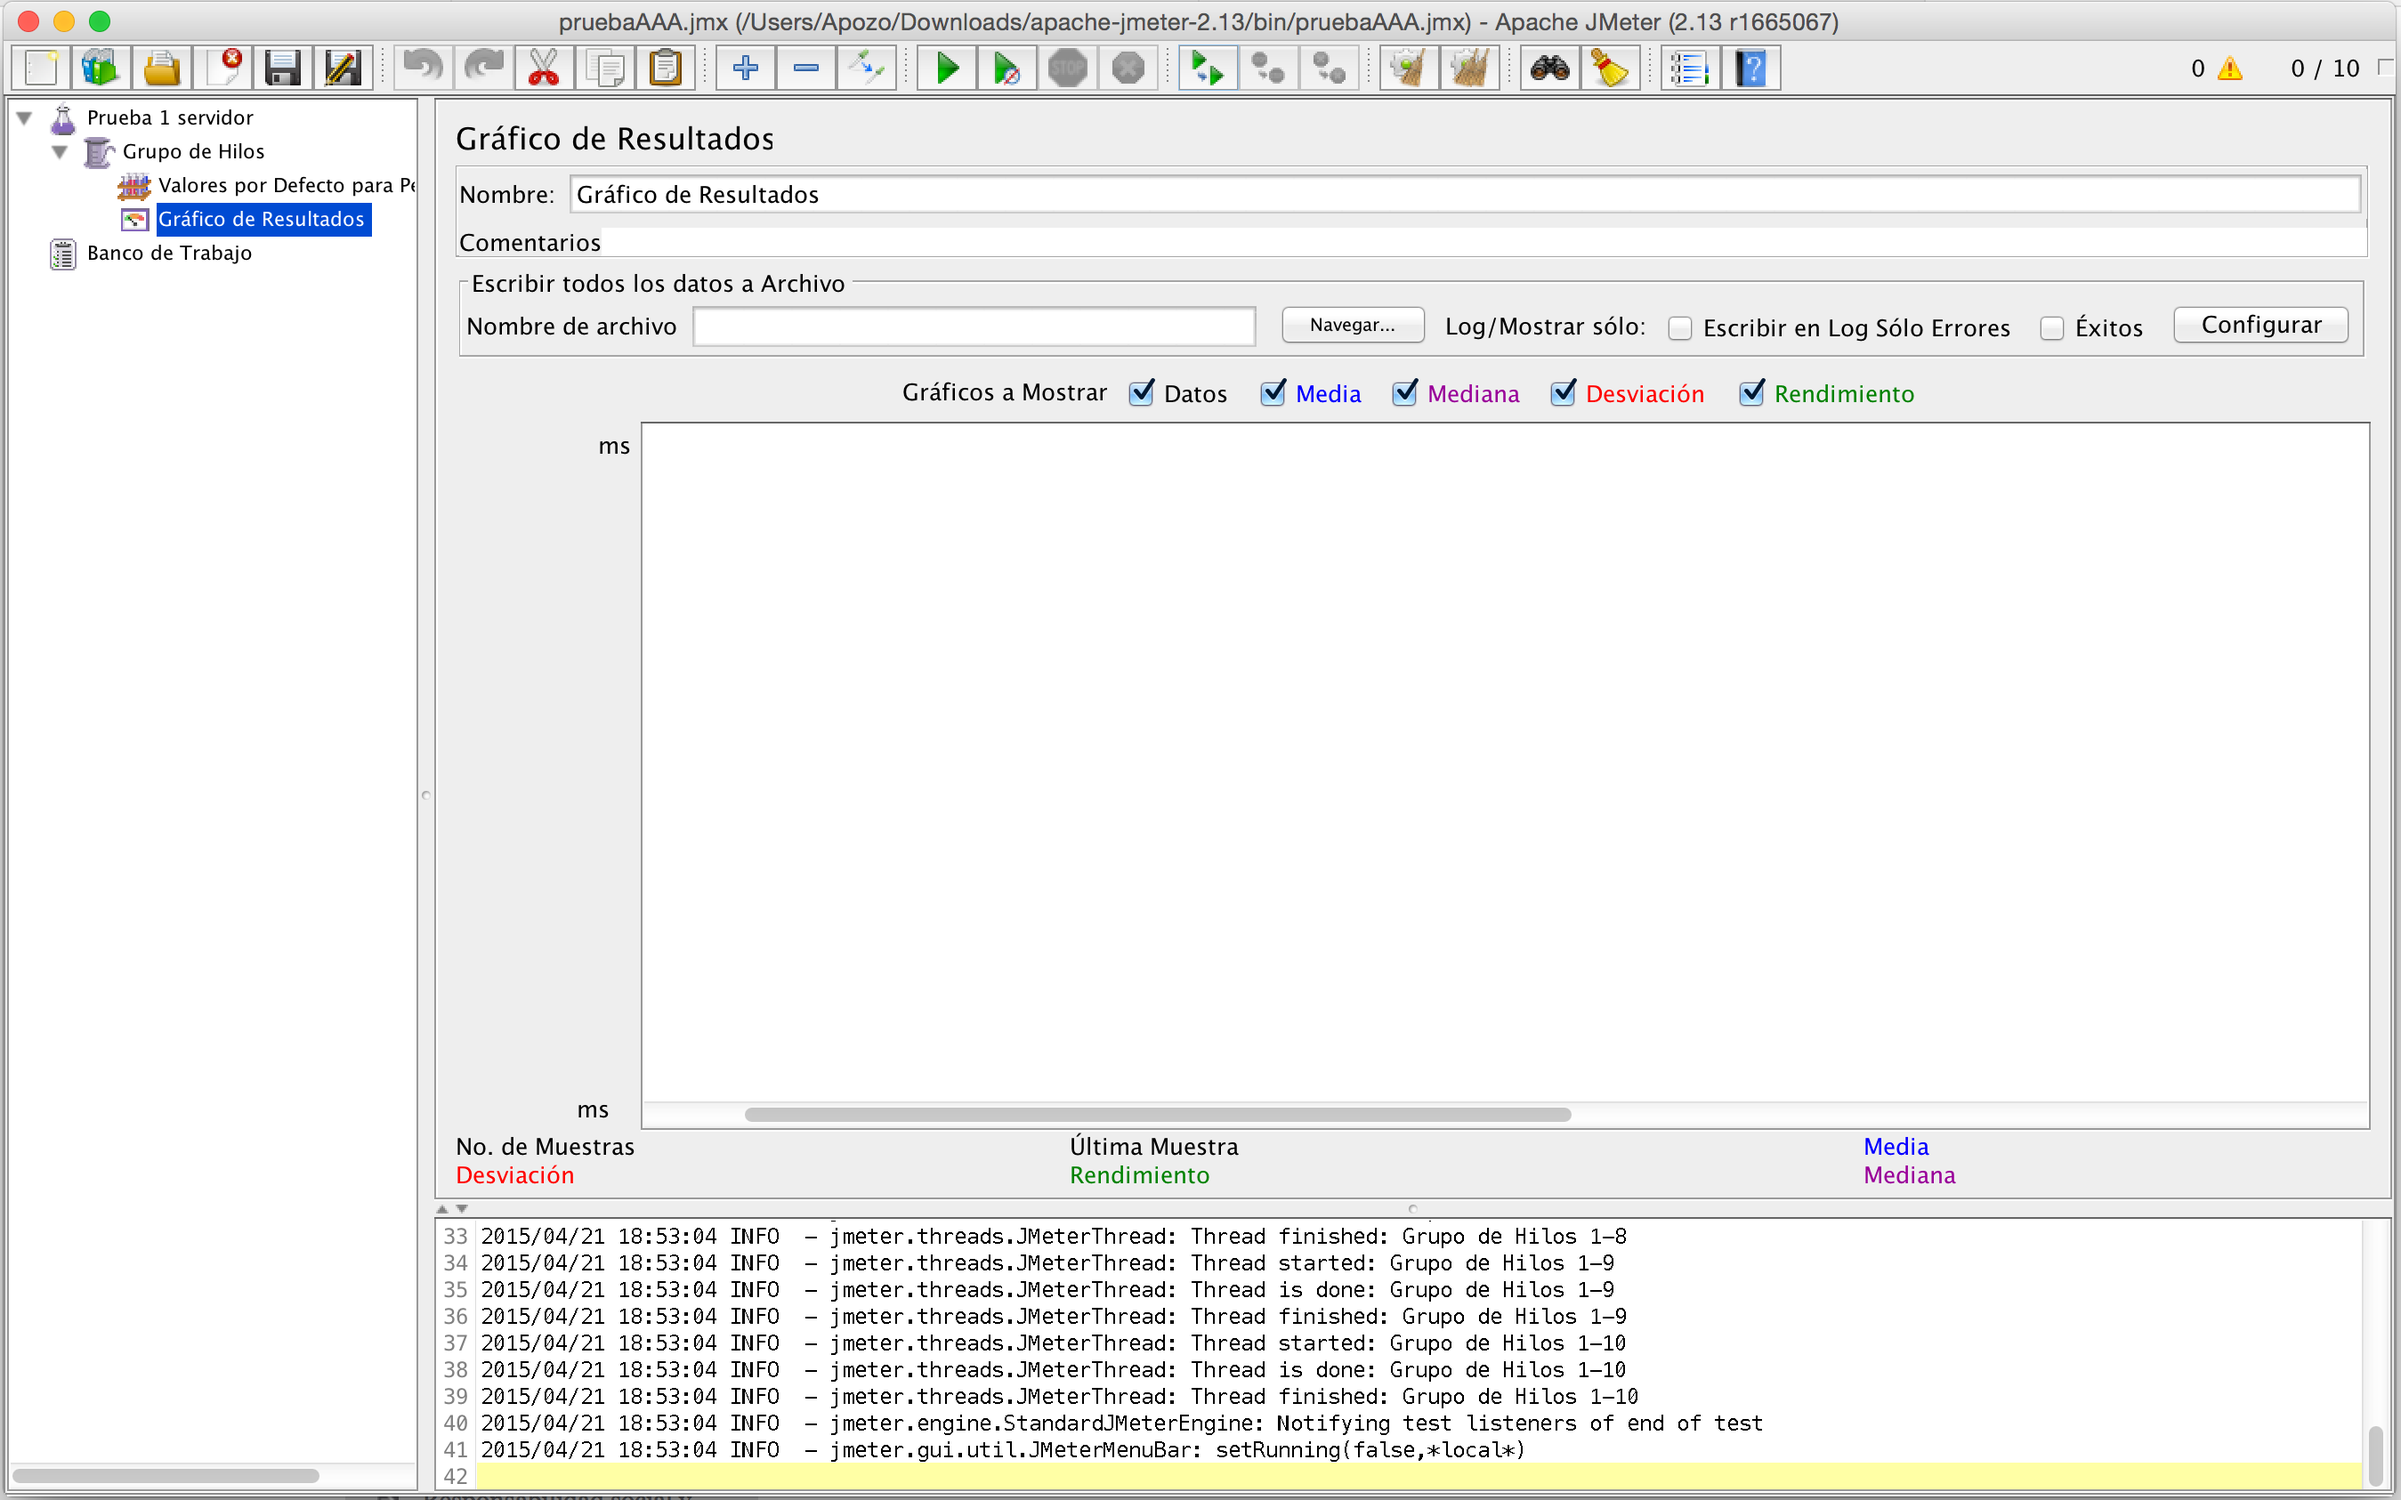
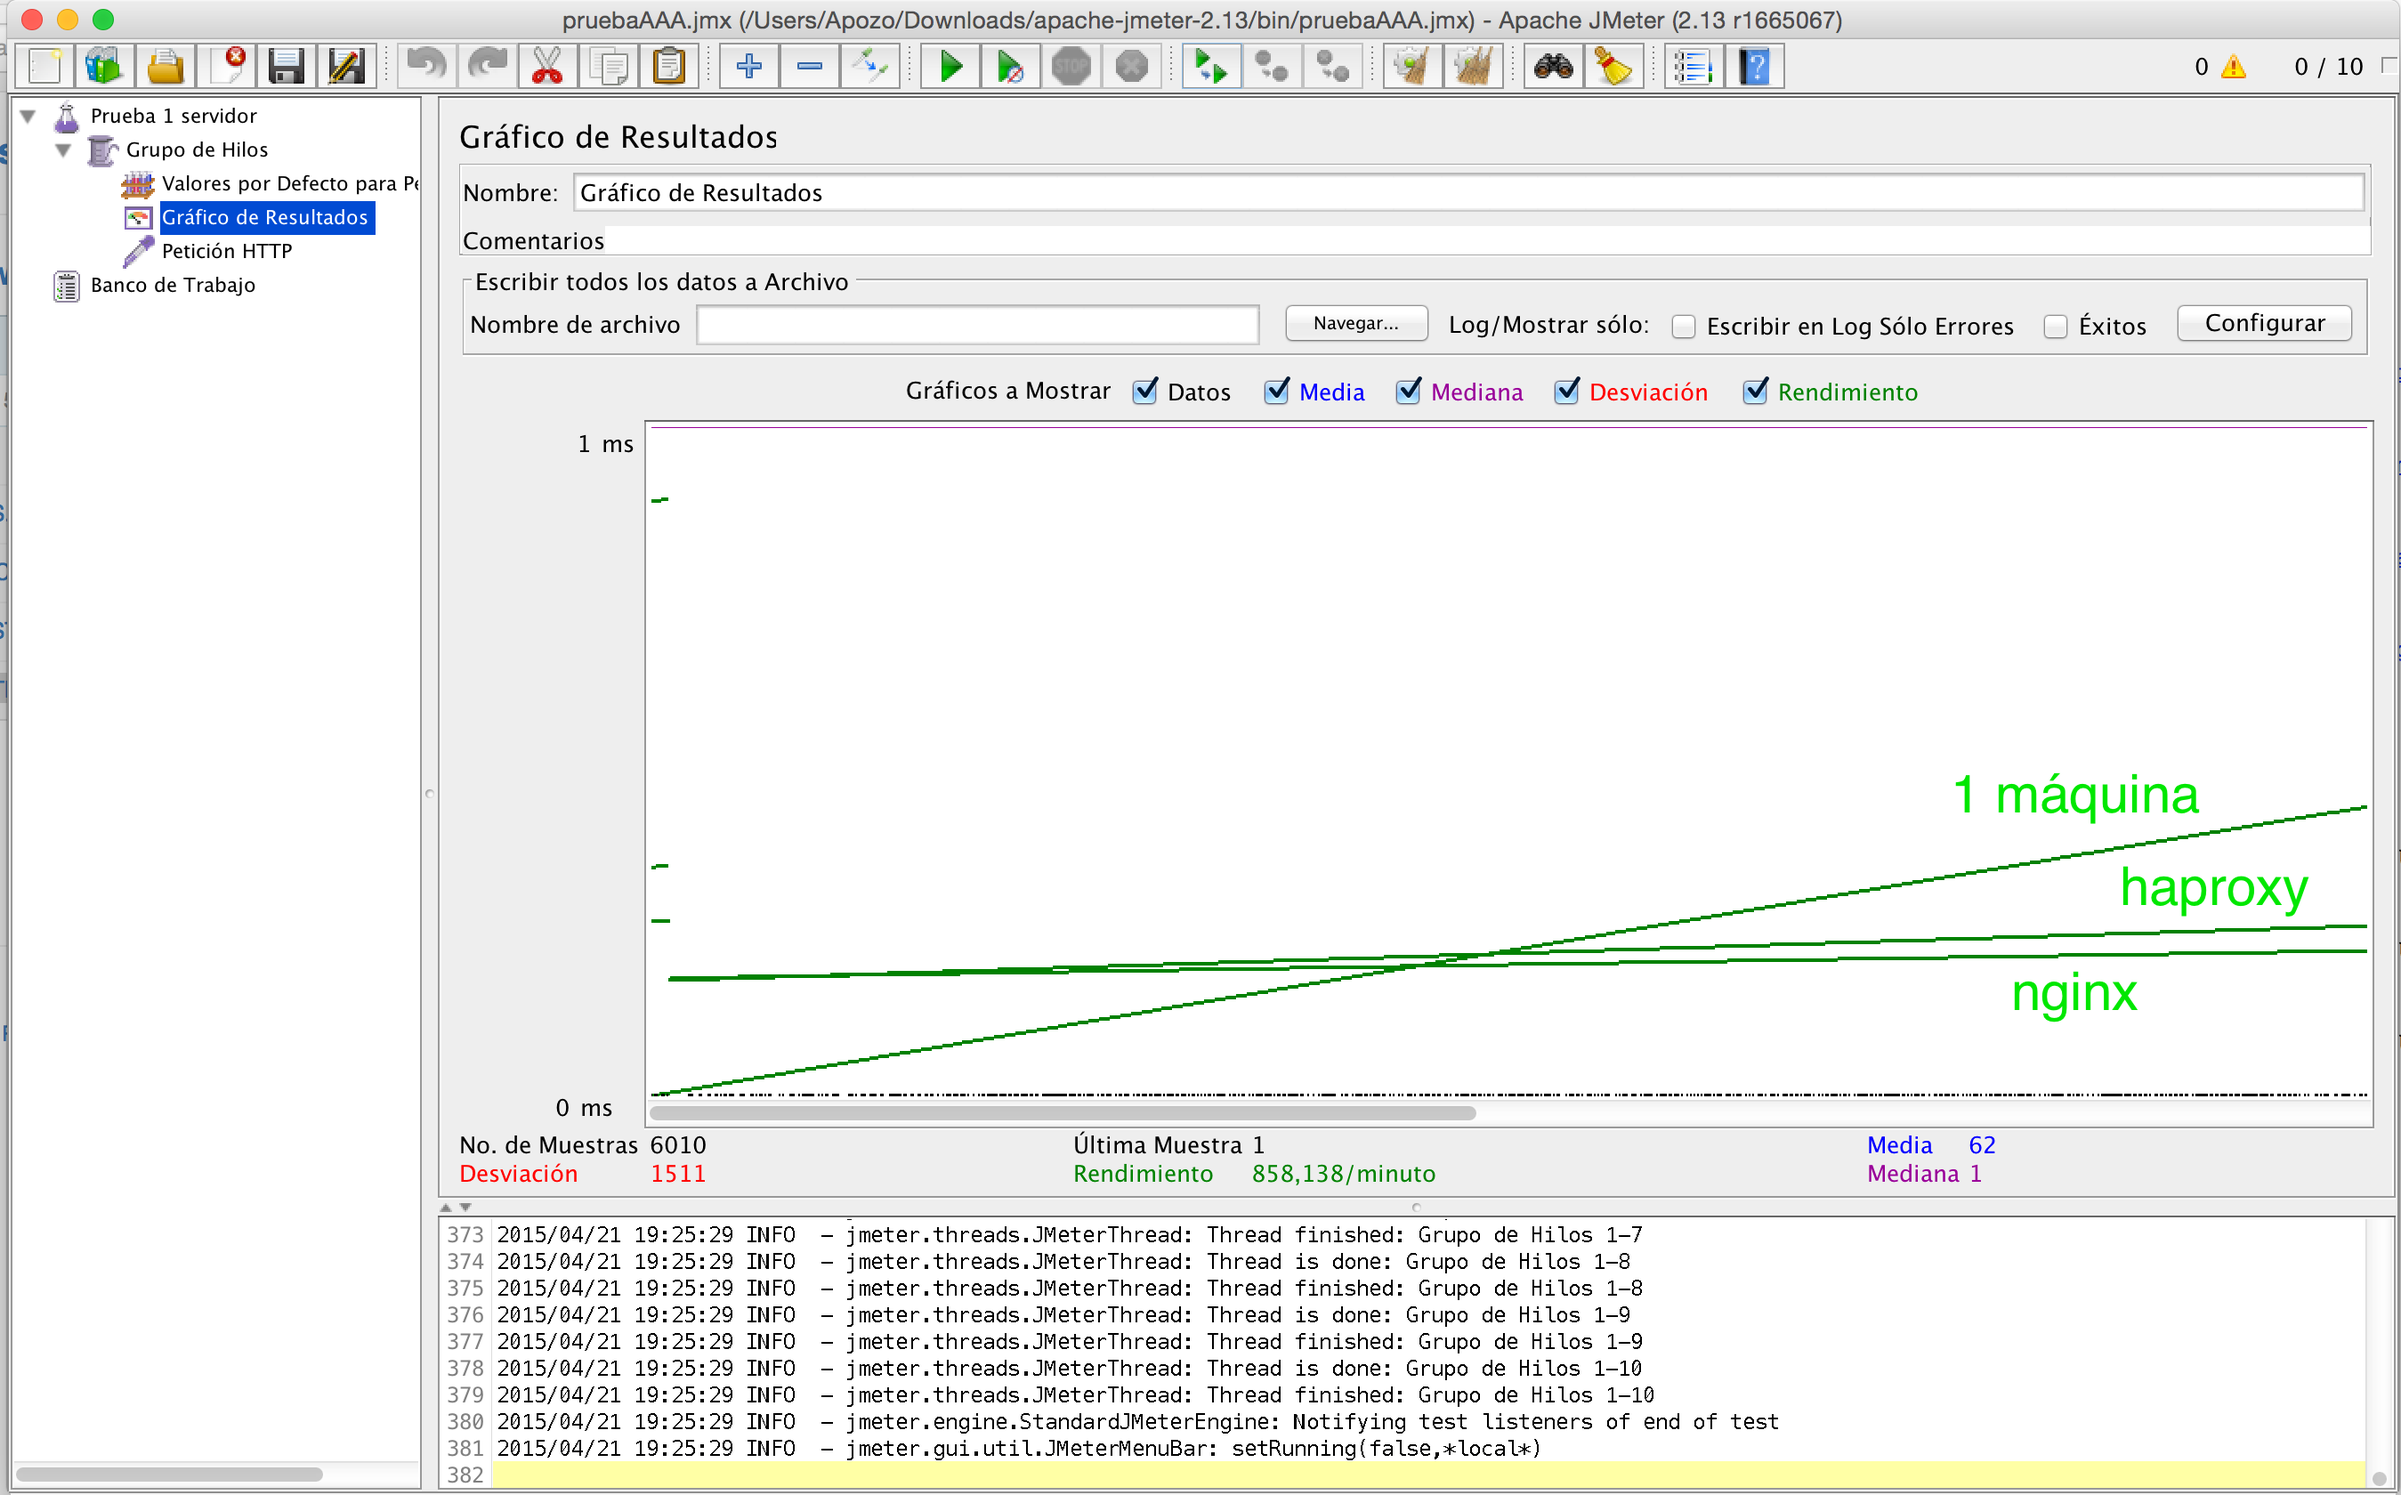
Práctica 4
Práctica 4 SWAP

diff --git a/P4/P4.md b/P4/P4.md
@@ -16,16 +16,16 @@ Las pruebas las hemos hecho ejecutando el siguiente comando:
 * ab -n 100000 -c 100 http://10.211.55.33 *
 
 #### TIME TAKEN FOR TESTS (seg)
-![imagen TIME TAKEN FOR TESTS (seg)](direccion github)
+![imagen TIME TAKEN FOR TESTS (seg)](https://github.com/AntonioPozo/swap1415/blob/master/P4/ab/imagenes%20graficas/ab-TIME%20TAKEN%20FOR%20TESTS%20(seg).png)
 
 #### TIME PER REQUEST (ms)
-![imagen TIME PER REQUEST (ms)](direccion github)
+![imagen TIME PER REQUEST (ms)](https://github.com/AntonioPozo/swap1415/blob/master/P4/ab/imagenes%20graficas/ab-TIME%20PER%20REQUEST%20(ms).png)
 
 #### REQUEST PER SECOND (seg)
-![imagen REQUEST PER SECOND (seg)](direccion github)
+![imagen REQUEST PER SECOND (seg)](https://github.com/AntonioPozo/swap1415/blob/master/P4/ab/imagenes%20graficas/ab-REQUEST%20PER%20SECOND%20(seg).png)
 
 #### FAILED REQUESTS
-![imagen FAILED REQUESTS](direccion github)
+![imagen FAILED REQUESTS](https://github.com/AntonioPozo/swap1415/blob/master/P4/ab/imagenes%20graficas/ab-FAILED%20REQUESTS.png)
 
 
 
@@ -86,11 +86,9 @@ Las pruebas las hemos hecho ejecutando el siguiente comando:
 
 ##Cuestión opcional: **JMeter**
 
+En la captura se muestra el gráfico de resultados de las 3 pruebas realizadas con JMeter.
+
 ![imagen valorespordefecto](direccion github)
 
 ![imagen graficoderesultados](direccion github)
 
-Hemos tenido problemas con JMeter. Como se ve en las capturas anteriores, el programa finaliza sin errores, sin embargo, en el gráfico de resultados no se observan valores. Se ha probado con otros servidores (ugr.es un ejemplo) y tampoco ha dado resultado.
-Una prueba realizada para la asignatura de Ingeniería de Serviores (3ºGI primer cuatrimestre) con los mismos parámetros sí obtuvo resultados y se pueden observar en la captura de abajo
-
-![imagen ensudia](direccion github)
